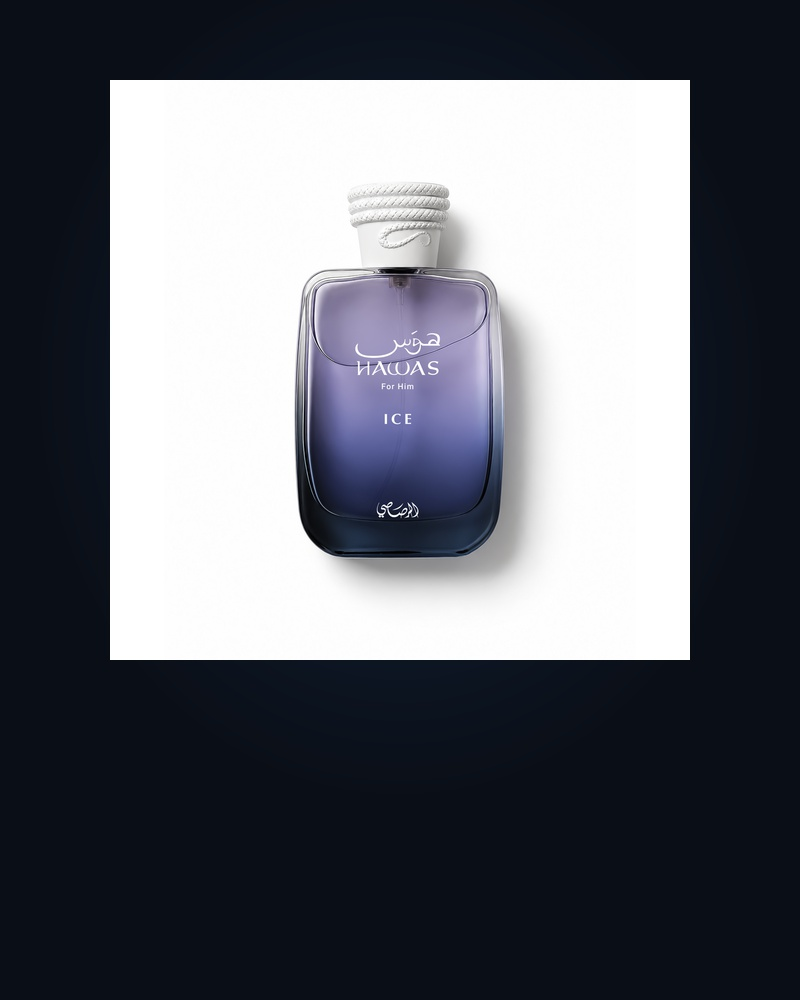
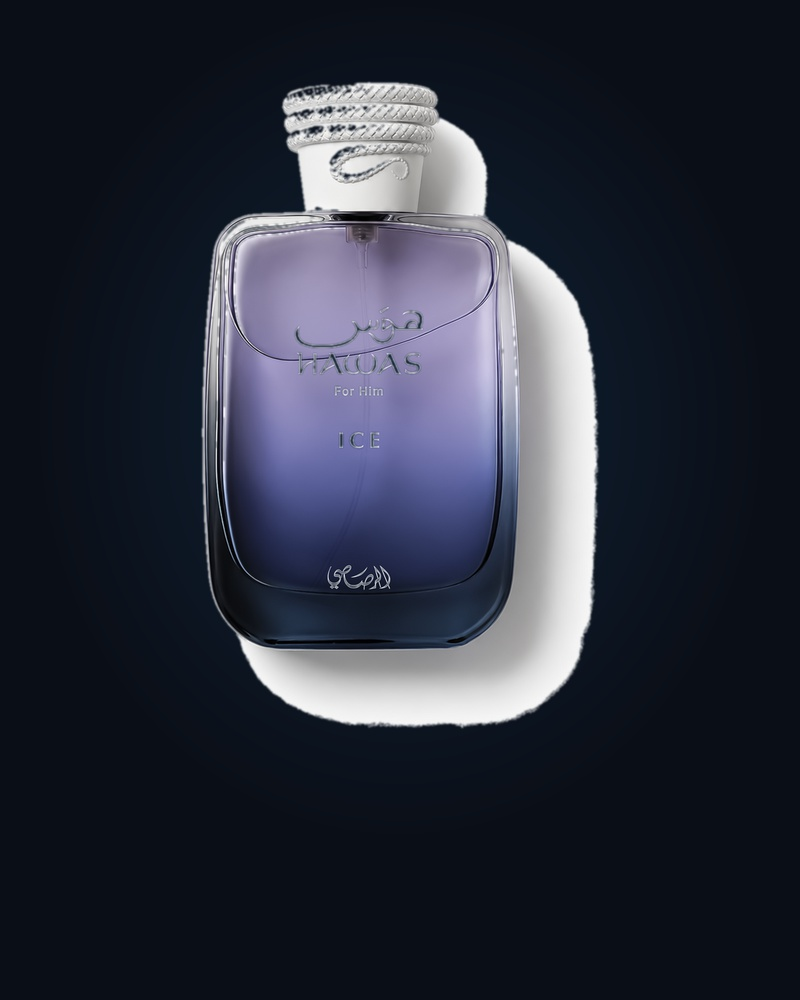
design(ui): simplify fragrance house cards with minimalist aesthetic and seamless dark backdrop

diff --git a/frontend/src/App.css b/frontend/src/App.css
@@ -345,73 +345,83 @@ nav.main-nav .active-nav::after {
 
 .tile-card {
   position: relative;
-  height: 380px;
-  border-radius: 8px;
+  height: 400px;
+  border-radius: 10px;
   overflow: hidden;
   cursor: pointer;
-  box-shadow: 0 4px 20px rgba(0, 0, 0, 0.06);
+  background-color: #0b0e14;
+  box-shadow: 0 10px 30px rgba(0, 0, 0, 0.25);
+  transition: transform 0.4s ease, box-shadow 0.4s ease;
+}
+
+.tile-card:hover {
+  transform: translateY(-4px);
+  box-shadow: 0 16px 40px rgba(0, 0, 0, 0.4);
 }
 
 .tile-img {
   width: 100%;
   height: 100%;
   object-fit: cover;
-  transition: transform 0.6s cubic-bezier(0.16, 1, 0.3, 1);
+  transition: transform 0.7s cubic-bezier(0.16, 1, 0.3, 1);
 }
 
 .tile-card:hover .tile-img {
-  transform: scale(1.06);
+  transform: scale(1.05);
 }
 
 .tile-overlay {
   position: absolute;
   inset: 0;
-  background: linear-gradient(to top, rgba(0, 0, 0, 0.85) 0%, rgba(0, 0, 0, 0.2) 60%, transparent 100%);
+  background: linear-gradient(to top, rgba(0, 0, 0, 0.9) 0%, rgba(0, 0, 0, 0.35) 45%, transparent 75%);
   display: flex;
   flex-direction: column;
   justify-content: flex-end;
-  padding: 30px;
+  padding: 28px 26px;
   color: #fff;
 }
 
 .tile-tag {
   font-size: 11px;
   font-weight: 700;
-  letter-spacing: 0.15em;
+  letter-spacing: 0.16em;
   color: var(--gold-accent);
   text-transform: uppercase;
   margin-bottom: 6px;
 }
 
 .tile-title {
-  font-size: 24px;
-  font-weight: 800;
+  font-size: 26px;
+  font-weight: 900;
   text-transform: uppercase;
-  margin-bottom: 8px;
+  letter-spacing: 0.02em;
+  margin-bottom: 12px;
 }
 
-.tile-desc {
-  font-size: 13px;
-  color: #d2d2d2;
-  margin-bottom: 16px;
-  line-height: 1.4;
-}
-
-.tile-btn {
-  align-self: flex-start;
-  background-color: #ffffff;
-  color: #000000;
-  padding: 8px 18px;
+.tile-action {
+  display: inline-flex;
+  align-items: center;
+  gap: 8px;
   font-size: 12px;
   font-weight: 700;
+  letter-spacing: 0.06em;
   text-transform: uppercase;
-  border-radius: 20px;
-  letter-spacing: 0.04em;
+  color: #ffffff;
+  transition: gap 0.25s ease, color 0.25s ease;
 }
 
-.tile-card:hover .tile-btn {
-  background-color: var(--gold-accent);
-  color: #fff;
+.tile-action i {
+  font-size: 11px;
+  transition: transform 0.25s ease;
+}
+
+.tile-card:hover .tile-action {
+  color: var(--gold-accent);
+  gap: 12px;
+}
+
+.tile-card:hover .tile-action i {
+  transform: translateX(3px);
 }
 
 /* ─── Collection Tab Bar (below Hero) ─────────────────────── */

diff --git a/frontend/src/components/CategoryHero.jsx b/frontend/src/components/CategoryHero.jsx
@@ -4,23 +4,17 @@ const CategoryHero = ({ onSelectCategory }) => {
   const categories = [
     {
       title: "Middle Eastern",
-      tag: "Opulent & Beast-Mode",
-      desc: "Rich Arabic coffee, sweet dates, warm cinnamon, and intoxicating smoky woods. Exceptional longevity and sillage.",
-      brands: "Lattafa • Afnan • Rasasi • Armaf",
+      tag: "Exotic & Beast-Mode",
       image: "/images/categories/rasasi-hawas-ice.jpg",
     },
     {
       title: "Designer",
-      tag: "Mainstream Perfection",
-      desc: "The world's most beloved compliment magnets. Masterfully crafted blends from Paris, Milan, and New York.",
-      brands: "Dior • Tom Ford • Chanel • YSL",
+      tag: "Mainstream Iconics",
       image: "/images/categories/bleu-de-chanel.jpg",
     },
     {
       title: "Niche",
-      tag: "Artisanal Connoisseur",
-      desc: "Rare raw ingredients, extraordinary concentration extraits, and artistic mastery for true perfume collectors.",
-      brands: "MFK • Parfums de Marly • Creed • Xerjoff",
+      tag: "Artisanal Luxury",
       image: "/images/categories/creed-aventus.jpg",
     },
   ];
@@ -42,11 +36,10 @@ const CategoryHero = ({ onSelectCategory }) => {
             <div className="tile-overlay">
               <span className="tile-tag">{cat.tag}</span>
               <h3 className="tile-title">{cat.title}</h3>
-              <p className="tile-desc">{cat.desc}</p>
-              <span style={{ fontSize: "11px", color: "var(--gold-accent)", marginBottom: "14px", fontWeight: "600" }}>
-                {cat.brands}
-              </span>
-              <button className="tile-btn">Shop {cat.title} Decants</button>
+              <div className="tile-action">
+                <span>Shop Decants</span>
+                <i className="fa-solid fa-arrow-right"></i>
+              </div>
             </div>
           </div>
         ))}
